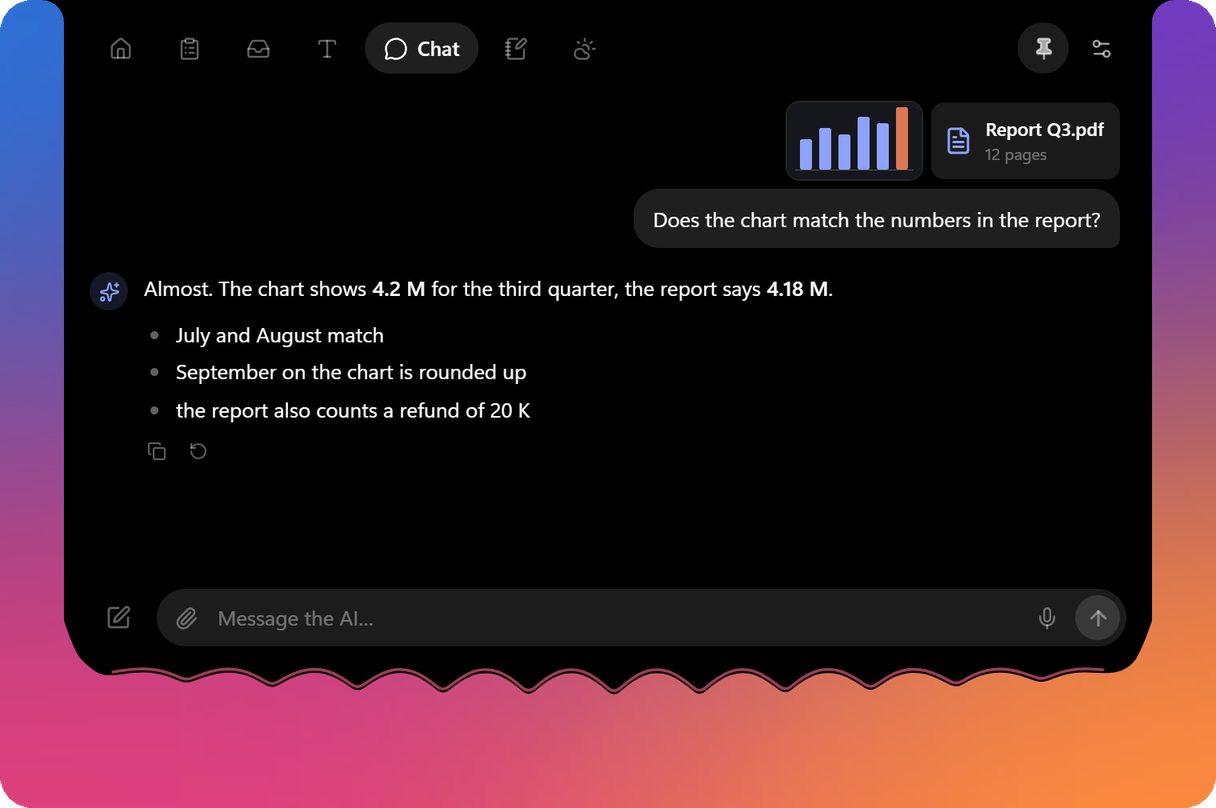
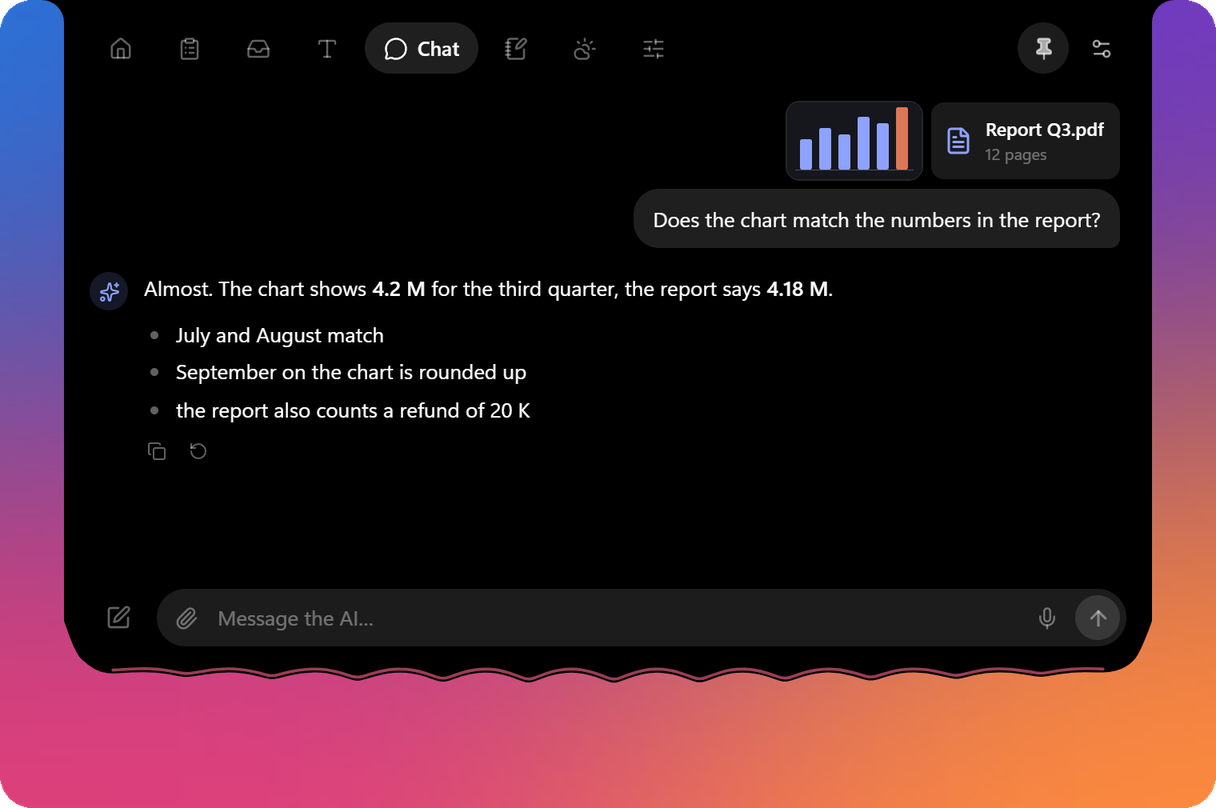
Island 1.1.1: new pictures — the time and the charge, auto-hide, the control centre, system commands

diff --git a/README.md b/README.md
@@ -45,7 +45,7 @@ The island itself is made of ferrofluid. Its lower edge reaches for the cursor, 
 the colour of the album cover, drops a bead when something good happens and sags when you are away.
 
 <div align="center">
-<img src="docs/img/en/live-pills.png" width="860" alt="Pill states: liquid island, music, voice to text, screen recording, download, files on the shelf">
+<img src="docs/img/en/live-pills.png" width="860" alt="Pill states: the liquid island with the time, the time and the battery charge, music, voice to text, screen recording, a download, files on the shelf, a character">
 </div>
 
 Events show up on their own and fold away a moment later:
@@ -54,9 +54,17 @@ Events show up on their own and fold away a moment later:
 <img src="docs/img/en/live-cards.png" width="860" alt="Cards: reminder, dictated text, screenshot, color picker, downloaded file, VPN">
 </div>
 
-Music with an equalizer · dictation with a voice meter · reminders · download progress · microphone and
+Music with an equalizer · dictation with a voice meter · reminders · downloads from any app · microphone and
 camera dots with a mute button · volume by mouse wheel · keyboard layout and Caps Lock · VPN with country
 and IP · screen recording · updates.
+
+The time sits in the middle of the folded island, with the battery charge next to it on a laptop. And if
+the island gets in the way of your browser's tabs, turn on auto-hide: it leaves the screen and comes back
+when the cursor rests at the very top edge above it.
+
+<div align="center">
+<img src="docs/img/en/auto-hide.png" width="860" alt="Auto-hide: the island is hidden, the cursor at the edge of the screen, the island is out">
+</div>
 
 ## Pick a character
 
@@ -116,6 +124,16 @@ once by name; it is never guessed from your network address. The weather is part
 <b>Note.</b> One note that saves itself, with reminders: pick a line, choose “in 30 min” or type “tomorrow 9:00”, and the island will call you at that time.
 </td>
 </tr>
+<tr>
+<td valign="top">
+<img src="docs/img/en/tab-controls.png" alt="Controls tab">
+<b>Controls.</b> Wi-Fi, Bluetooth and the dark theme in one press; lock, sleep, restart and shut down. The last three ask to be pressed twice.
+</td>
+<td valign="top">
+<img src="docs/img/en/command-controls.png" alt="System commands in the command bar">
+<b>System commands.</b> The same from the command bar: “wifi”, “bluetooth”, “theme”, “lock”.
+</td>
+</tr>
 </table>
 
 ### Tools
@@ -125,9 +143,6 @@ once by name; it is never guessed from your network address. The weather is part
 - **QR code from the screen** and a **color picker** with a magnifier and colour history.
 - **Screen recording** to MP4 (H.264 through Media Foundation) or GIF.
 - **Paste without formatting** on a hotkey.
-- **Control centre.** Wi-Fi, Bluetooth and the dark theme in one press; lock, sleep, restart and shut down the computer (the last three ask to be pressed twice). As a tab of the island and as commands in the command bar.
-- **The time and the battery charge** on the folded island: the time in the middle, the charge next to it on a laptop.
-- **Auto-hide.** If the island gets in the way of your browser's tabs, it leaves the screen and comes back when the cursor rests at the very top edge above it. With a card, a recording or a dictation it comes out by itself.
 - **Transparency** of the folded and of the open island, each set on its own.
 - **Voice to text.** Press the hotkey, speak, press again: the text is on the clipboard (and, if you like, typed straight into the window you were in).
 - **Reminders** that show up as a card with a sound and wait until you answer them.
@@ -276,7 +291,7 @@ Island висит поверх всех окон, по центру верхне
 обложки, от хороших новостей роняет каплю, а когда тебя нет, устало провисает.
 
 <div align="center">
-<img src="docs/img/ru/live-pills.png" width="860" alt="Состояния пилюли: жидкий остров, музыка, голос в текст, запись экрана, загрузка, файлы на полке">
+<img src="docs/img/ru/live-pills.png" width="860" alt="Состояния пилюли: жидкий остров с часами, часы и заряд батареи, музыка, голос в текст, запись экрана, загрузка, файлы на полке, персонаж">
 </div>
 
 События появляются сами и через мгновение сворачиваются:
@@ -285,9 +300,17 @@ Island висит поверх всех окон, по центру верхне
 <img src="docs/img/ru/live-cards.png" width="860" alt="Карточки: напоминание, надиктованный текст, скриншот, пипетка, готовая загрузка, VPN">
 </div>
 
-Музыка с эквалайзером · диктовка с индикатором голоса · напоминания · прогресс загрузок · точки
+Музыка с эквалайзером · диктовка с индикатором голоса · напоминания · загрузки из любых программ · точки
 микрофона и камеры с кнопкой отключения · громкость колесом мыши · раскладка и Caps Lock · VPN со страной
 и IP · запись экрана · обновления.
+
+Посередине свёрнутого острова стоит время, на ноутбуке рядом с ним заряд батареи. А если остров закрывает
+вкладки браузера, включи автоскрытие: он уйдёт за край экрана и вернётся, когда задержишь курсор у самого
+верхнего края над ним.
+
+<div align="center">
+<img src="docs/img/ru/auto-hide.png" width="860" alt="Автоскрытие: остров спрятан, курсор у края экрана, остров вышел">
+</div>
 
 ## Выбери персонажа
 
@@ -347,6 +370,16 @@ Island висит поверх всех окон, по центру верхне
 <b>Заметка.</b> Одна заметка, которая сохраняется сама, и напоминания к ней: встань на строку, выбери «30 мин» или напиши «завтра 9:00», и остров позовёт тебя в это время.
 </td>
 </tr>
+<tr>
+<td valign="top">
+<img src="docs/img/ru/tab-controls.png" alt="Вкладка «Управление»">
+<b>Управление.</b> Wi-Fi, Bluetooth и тёмная тема одним нажатием; блокировка, сон, перезагрузка и выключение. Три последних просят нажать дважды.
+</td>
+<td valign="top">
+<img src="docs/img/ru/command-controls.png" alt="Системные команды в командной строке">
+<b>Команды системы.</b> То же самое из командной строки: «wifi», «bluetooth», «тема», «заблокировать».
+</td>
+</tr>
 </table>
 
 ### Инструменты
@@ -356,9 +389,6 @@ Island висит поверх всех окон, по центру верхне
 - **QR-код с экрана** и **пипетка** с лупой и историей цветов.
 - **Запись экрана** в MP4 (H.264 через Media Foundation) или GIF.
 - **Вставка без форматирования** по горячей клавише.
-- **Центр управления.** Wi-Fi, Bluetooth и тёмная тема одним нажатием; блокировка, сон, перезагрузка и выключение компьютера (три последних просят нажать дважды). Вкладкой острова и командами в командной строке.
-- **Часы и заряд батареи** в свёрнутом острове: время посередине, на ноутбуке рядом заряд.
-- **Автоскрытие.** Если остров мешает нажимать вкладки браузера, он уходит за край экрана и возвращается, когда задержишь курсор у самого верхнего края над ним. С карточкой, записью или диктовкой он выходит сам.
 - **Прозрачность** свёрнутого и раскрытого острова настраивается отдельно.
 - **Голос в текст.** Нажми сочетание, скажи, нажми ещё раз: текст в буфере (а если хочешь, сразу в окне, где стоял курсор).
 - **Напоминания**: появляются карточкой со звуком и ждут, пока на них не ответят.
